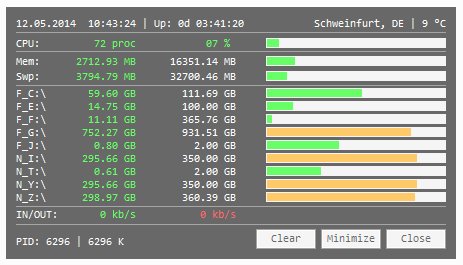
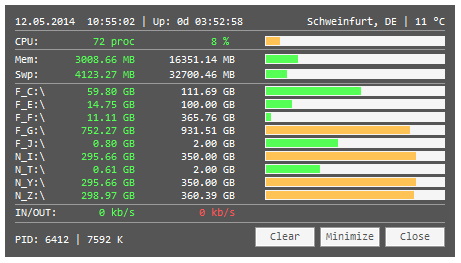
Update to v0.8.3
Update README
Update Screenshot
Update src\htopmini

Changed region(s): [[0.0304, 0.0608, 0.9718, 0.943], [0.0, 0.0, 1.0, 0.0304], [0.0304, 0.8821, 0.2733, 0.943]]

diff --git a/README.md b/README.md
@@ -10,6 +10,17 @@ Small System-Info Tool via AutoHotkey
 * NetTraffic: IN & OUT (dont work 100%)
 * Usage: PID & PrivatUsage Memory
 * Clear Memory
+* Toggle Percentage in ProgressBar
+* Toggle & Reset Transparency
+* Toggle AlwaysOnTop
+* Toggle WinShow / WinHide
+
+### Weather
+http://weather.yahooapis.com/forecastrss?w=LOCATIONID&u=UNITS
+1. visit http://weather.yahoo.com/ and enter your city or zip code (e.g. Paris, FR)
+2. new link => http://weather.yahoo.com/france/%C3%AEle-de-france/paris-615702/ (location id = 615702)
+3. add ?w=615702&u=c for Paris and Celsium (f = fahrenheit)
+=> http://weather.yahooapis.com/forecastrss?w=615702&u=c
 
 
 ## Screenshot
@@ -17,11 +28,12 @@ Small System-Info Tool via AutoHotkey
 
 
 ## Info
-* Version: v0.8.2
+* Version: v0.8.3
 * URL: [AHK Thread](http://ahkscript.org/boards/viewtopic.php?f=6&t=254)
 
 
 ## Changelog
+* 0.8.3 | Change GetSystemTimes() to CPULoad(), Scale transparency with Strg+MWHEEL(UP|DOWN)
 * 0.8.2 | Click to open Drive in Explorer, Update Window
 * 0.8.1 | Bugfixes & Improvements
 * 0.8.0 | Clear Memory, Add SWP, Bugfixes
